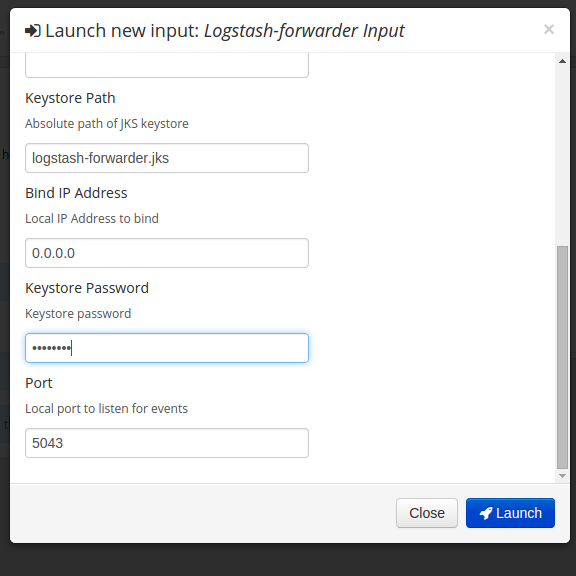
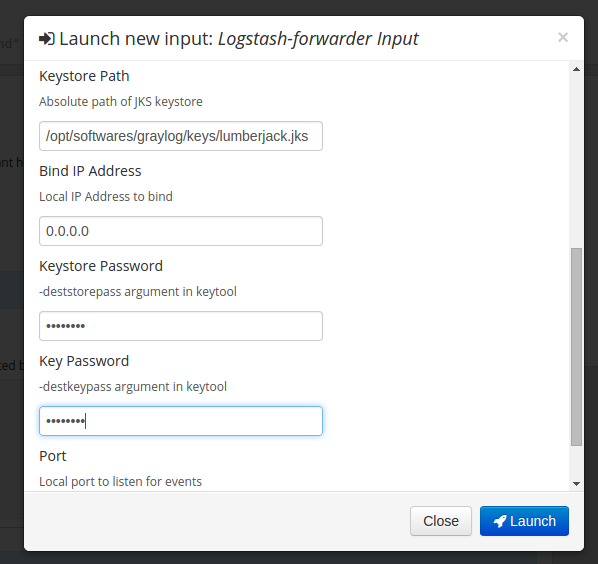
updated readme and add new screenshots

Changed region(s): [[0.0, 0.0, 1.0, 0.9947]]

diff --git a/src/main/java/org/lumberjack/server/LumberjackDecoder.java b/src/main/java/org/lumberjack/server/LumberjackDecoder.java
@@ -43,8 +43,6 @@ public class LumberjackDecoder extends FrameDecoder {
         byte frameType = channelBuffer.readByte();
         List<LogEvent> logEvents = null;
 
-        //System.out.println("Frame Type " + frameType);
-
         switch (frameType) {
             case FRAME_WINDOWSIZE: //'W'
                 processWindowSizeFrame(channelBuffer);
@@ -73,14 +71,11 @@ public class LumberjackDecoder extends FrameDecoder {
     private List<LogEvent> processCompressedFrame(Channel channel, ChannelBuffer channelBuffer) throws IOException {
         if (channelBuffer.readableBytes() >= 4) {
             long payloadLength = channelBuffer.readUnsignedInt();
-//            System.out.println("Payload Length " + payloadLength);
-//            System.out.println("Readable Bytes " + channelBuffer.readableBytes());
             if (channelBuffer.readableBytes() < payloadLength) {
                 channelBuffer.resetReaderIndex();
             } else {
                 byte[] data = new byte[(int) payloadLength];
                 channelBuffer.readBytes(data);
-//                System.out.println("data length " + data.length);
 
                 if (data.length == payloadLength) {
                     InputStream in =
@@ -117,14 +112,18 @@ public class LumberjackDecoder extends FrameDecoder {
         } else {
             long windowSize = channelBuffer.readUnsignedInt();
             nextAckSeqNum = sequenceNum + windowSize;
-            //LOGGER.warn("Window size ->" + windowSize + " next ack seq num " + nextAckSeqNum);
+            if(LOGGER.isDebugEnabled()) {
+                LOGGER.debug("Window size ->" + windowSize + " next ack seq num " + nextAckSeqNum);
+            }
         }
     }
 
     private LogEvent processDataFrame(ChannelBuffer channelBuffer) {
         prevSequenceNum = sequenceNum;
         sequenceNum = channelBuffer.readUnsignedInt();
-        //LOGGER.warn("Sequence number ->" + sequenceNum);
+        if(LOGGER.isDebugEnabled()) {
+            LOGGER.debug("Sequence number ->" + sequenceNum);
+        }
         long pairCount = channelBuffer.readUnsignedInt();
         Map<String, String> logDataMap = new HashMap<>((int) pairCount);
         for (int i = 0; i < pairCount; i++) {
@@ -144,17 +143,14 @@ public class LumberjackDecoder extends FrameDecoder {
         return createLogEvent(logDataMap);
     }
 
-//    private LogEvent createLogEvent(Map<String, String> logDataMap) {
-//        LogEvent logEvent = new LogEvent(logDataMap);
-//        return logEvent;
-//    }
-
     private LogEvent createLogEvent(Map<String, String> logDataMap) {
         return new LogEvent(logDataMap);
     }
 
     private void sendAck(final Channel channel, long seqNum) throws IOException {
-        //LOGGER.warn("Sending Ack for " + seqNum);
+        if(LOGGER.isDebugEnabled()) {
+            LOGGER.debug("Sending Ack for " + seqNum);
+        }
         ChannelBuffer buffer = ChannelBuffers.buffer(6);
         buffer.writeBytes(new byte[]{0x31, FRAME_ACK});
         buffer.writeInt((int) seqNum);

diff --git a/src/main/java/org/lumberjack/server/LogEventHandler.java b/src/main/java/org/lumberjack/server/LogEventHandler.java
@@ -1,6 +1,7 @@
 package org.lumberjack.server;
 
 import org.jboss.netty.channel.ChannelHandlerContext;
+import org.jboss.netty.channel.ChannelStateEvent;
 import org.jboss.netty.channel.MessageEvent;
 import org.jboss.netty.channel.SimpleChannelHandler;
 
@@ -27,5 +28,10 @@ public class LogEventHandler extends SimpleChannelHandler {
             List<LogEvent> events = (List<LogEvent>)message;
             eventListener.onEvents(events);
         }
+    }
+
+    @Override
+    public void channelClosed(ChannelHandlerContext ctx, ChannelStateEvent e) throws Exception {
+        super.channelClosed(ctx, e);
     }
 }

diff --git a/README.md b/README.md
@@ -21,5 +21,61 @@ This project is using Maven 3 and requires Java 7 or higher. The plugin will req
      this [link] (http://www.cloudera.com/content/cloudera/en/documentation/core/v5-2-x/topics/cm_sg_openssl_jks.html)
     * Keystore password
     * Key Password
+    
+How To
+------
+
+Following are the steps to integrate this plugin with Graylog server and index the files
+
+### Copy the plugin to Graylog plugins directory
+* Download the plugin [jar] () and copy the jar to plugin directory in Graylog server installation
+
+### Generate SSL certificates
+* Generate SSL certificates to be used for transport using following command (for further information refer logstash-forwarder [documentation] (https://github.com/elastic/logstash-forwarder/))
+     `openssl req -x509  -batch -nodes -newkey rsa:2048 -keyout lumberjack.key -out lumberjack.crt -subj /CN=<graylog-server-name>`
+* Export these certificates 
+     `openssl pkcs12 -export -in lumberjack.crt -inkey lumberjack.key -out lumberjack.p12 -name localhost -passin pass:<password> -passout pass:<store-pass>`
+* Import the certificates using keytool. 
+     `keytool -importkeystore -srckeystore lumberjack.p12 -srcstoretype PKCS12 -srcstorepass <store-pass> -alias <graylog-server-name> -deststorepass <keystore-pass> -destkeypass <key-pass> -destkeystore lumberjack.jks`
+* The above commands will generate following files lumberjack.crt, lumberjack.key, lumberjack.jks
+   
+### Configure plugin in Graylog 
+* Create new input of type "Logstash-forwarder Input" 
+     
+     ![Logstash-forwarder input configuration] (https://raw.githubusercontent.com/sivasamyk/graylog2-input-lumberjack/master/input-config.png)
+
+### Create logstash-forwarder configuration file
+* Create logstash-forwarder configuration file
+
+{
+  "network": {
+    "servers": [ "<graylog-server-name>:5043" ],
+
+    # The path to your client ssl key (optional)
+    "ssl key": "lumberjack.key",
+
+    # The path to your trusted ssl CA file. This is used
+    # to authenticate your downstream server.
+    "ssl ca": "lumberjack.crt",        
+    "timeout": 15
+  },
+
+  # The list of files configurations
+  "files": [
+    # An array of hashes. Each hash tells what paths to watch and
+    # what fields to annotate on events from those paths.
+    {
+      "paths": [
+        
+      ]
+    }
+  ]
+}
+
+### Start indexing the files
+* Launch logstash-frowarder with -config option
+* Create extractors to extract timestamp from message.
+
+
 
 
